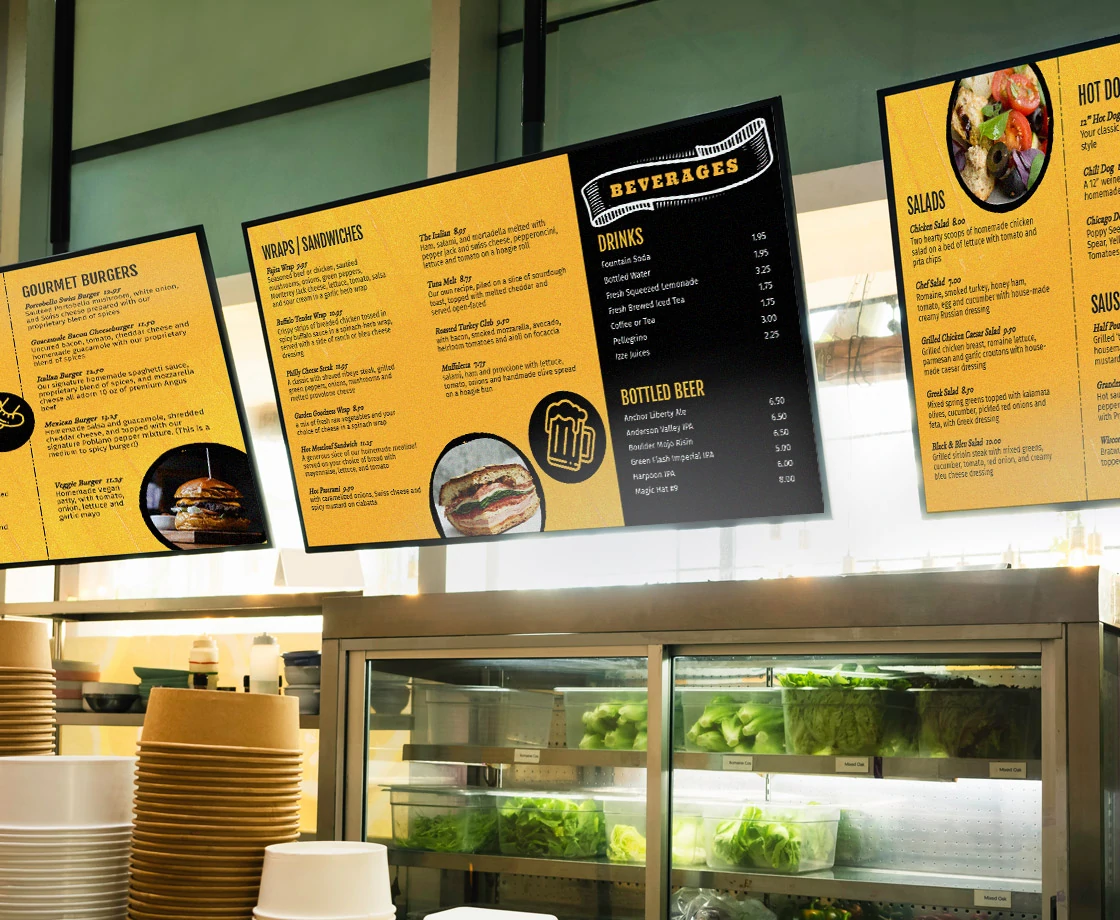
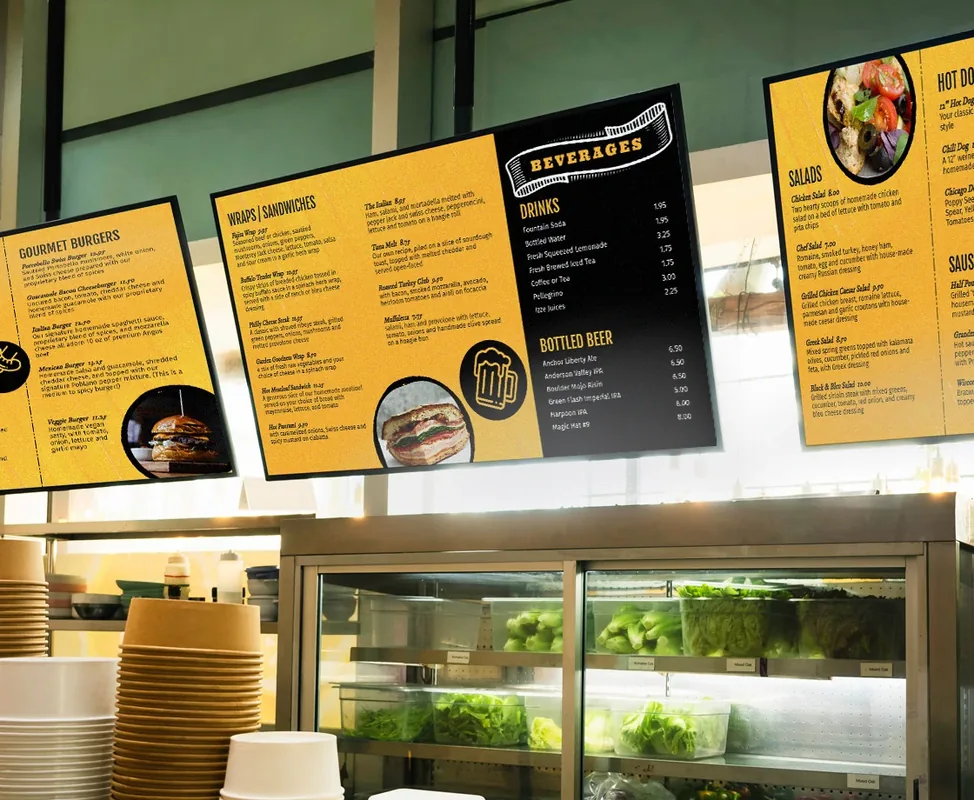
perf: optimize images — convert JPG/PNG to WebP, reduce total size by ~1.4MB
- banking.png (529KB) -> banking.webp (39KB) — 93% reduction
- retail.jpg (412KB) -> retail.webp (67KB) — 84% reduction
- hospitality.jpg (169KB) -> hospitality.webp (52KB) — 69% reduction
- sports-gym.jpg (205KB) -> sports-gym.webp (91KB) — 56% reduction
- corporate.jpg (103KB) -> corporate.webp (51KB) — 50% reduction
- menu-boards.webp (254KB) -> 114KB — 55% reduction
- conference.webp (73KB) -> 61KB — 17% reduction
- hero-main-1920w.webp minor recompression
- Update DigitalSignage.tsx and siteData.ts to reference new .webp files
- Total public/ folder: ~3.4MB -> ~2.0MB

diff --git a/client/src/pages/services/DigitalSignage.tsx b/client/src/pages/services/DigitalSignage.tsx
@@ -33,7 +33,7 @@ const USE_CASES = [
     title: "Corporate & Internal Communications",
     description:
       "Keep your team informed whether they're on the floor, in the breakroom, or walking through the lobby. Broadcast real-time company updates, HR announcements, KPIs, and meeting schedules.",
-    image: "/digital-signage/corporate.jpg",
+    image: "/digital-signage/corporate.webp",
     alt: "Corporate lobby digital signage display",
   },
   {
@@ -41,7 +41,7 @@ const USE_CASES = [
     title: "Retail Environments",
     description:
       "Drive sales and strengthen your brand on the sales floor. Promote new products, upcoming sales, and special offers. Manage messaging across one store or multiple Tri-State locations from a single dashboard.",
-    image: "/digital-signage/retail.jpg",
+    image: "/digital-signage/retail.webp",
     alt: "Retail store digital signage display wall",
   },
   {
@@ -49,7 +49,7 @@ const USE_CASES = [
     title: "Hospitality & Hotels",
     description:
       "Elevate the guest experience from the moment they walk in. Display daily activity schedules, promote on-site dining, welcome VIP guests, and feature local sponsored content — all on one managed platform.",
-    image: "/digital-signage/hospitality.jpg",
+    image: "/digital-signage/hospitality.webp",
     alt: "Hotel lobby digital signage kiosk",
   },
   {
@@ -73,7 +73,7 @@ const USE_CASES = [
     title: "Sports Facilities & Gyms",
     description:
       "Keep the energy high with real-time class schedules, promotional offers, member announcements, and safety alerts. Engage members with dynamic, high-impact visuals on every screen.",
-    image: "/digital-signage/sports-gym.jpg",
+    image: "/digital-signage/sports-gym.webp",
     alt: "Gym fitness center digital signage display",
   },
   {
@@ -81,7 +81,7 @@ const USE_CASES = [
     title: "Banks & Financial Services",
     description:
       "Streamline lobby communication with real-time rate displays, product promotions, and live queue updates. Reduce perceived wait times and highlight key services exactly when customers are paying attention.",
-    image: "/digital-signage/banking.png",
+    image: "/digital-signage/banking.webp",
     alt: "Bank lobby digital signage showing mortgage rates",
   },
 ];

diff --git a/client/src/lib/siteData.ts b/client/src/lib/siteData.ts
@@ -37,7 +37,7 @@ export const IMAGES = {
   heroCameras: "https://d2xsxph8kpxj0f.cloudfront.net/310419663030082570/Tfe6MLMokmY8tMP4sdwDCa/hero-cameras-Epwbn9AsuWE6eQcF4RnUJr.webp",
   heroAiAgent: "https://d2xsxph8kpxj0f.cloudfront.net/310419663030082570/Tfe6MLMokmY8tMP4sdwDCa/hero-ai-agent-NEVWnYfLcWxHS9dfuYkND8.webp",
   heroAccess: "https://d2xsxph8kpxj0f.cloudfront.net/310419663030082570/Tfe6MLMokmY8tMP4sdwDCa/hero-access-control-9nuBCFGBp72MkRE4DdoFf3.webp",
-  heroDigitalSignage: "/digital-signage/corporate.jpg",
+  heroDigitalSignage: "/digital-signage/corporate.webp",
 };
 
 // Responsive srcset strings — local WebP files at 400/800/1200/1920w